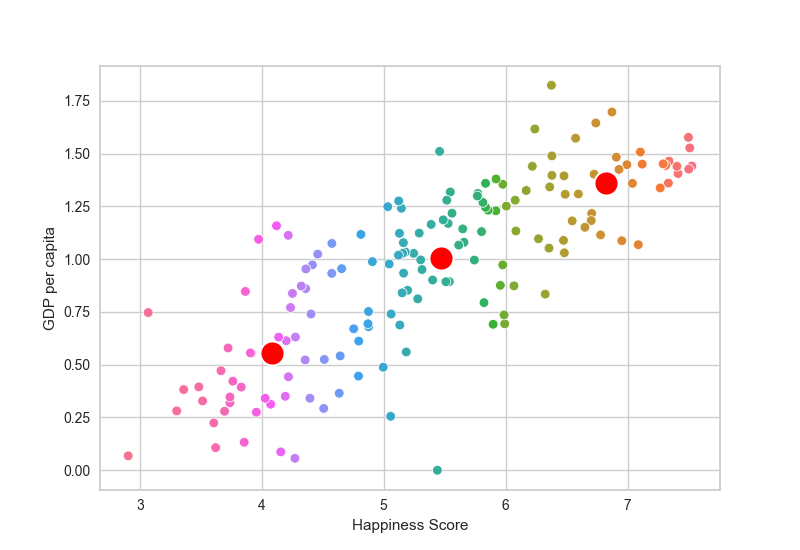
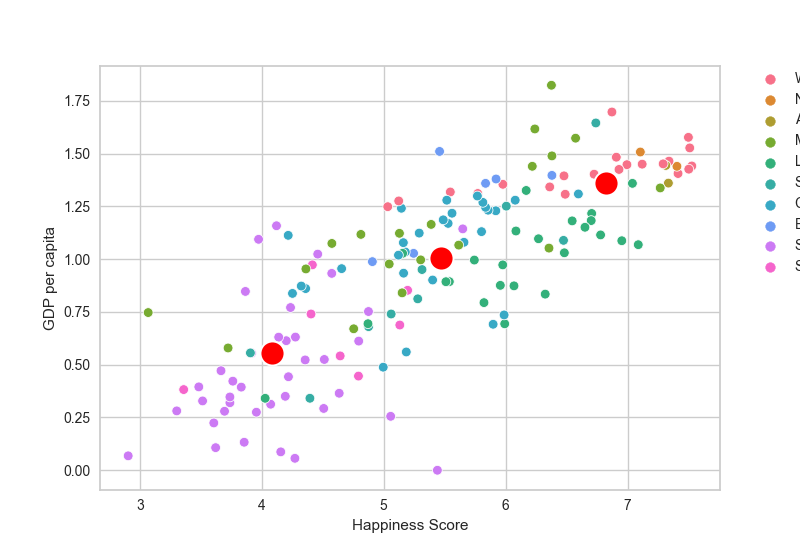
Separado em funções e análise com região adicionada

diff --git a/happiness.py b/happiness.py
@@ -8,33 +8,32 @@ from yellowbrick.cluster import KElbowVisualizer
 from sklearn.metrics import silhouette_samples, silhouette_score
 import matplotlib.cm as cm
 
-
-if __name__ == '__main__':
-    df = pd.read_csv('data/happiness/2016.csv')
-    print(df.columns)
-    print(len(pd.unique(df['Country'])))
-    happinessScore = df[['Country', 'Happiness Score']]
-    gdpByHappiness = df[['Country', 'Happiness Score', 'Economy (GDP per Capita)']]
+def Kmeans_Country_HappinessvGDP(dataset):
+    print(dataset.columns)
+    print(len(pd.unique(dataset['Country'])))
+    happinessScore = dataset[['Country', 'Happiness Score']]
+    gdpByHappiness = dataset[['Country', 'Happiness Score', 'Economy (GDP per Capita)']]
     print(gdpByHappiness)
     plt.figure(figsize=(9, 8))
     sns.scatterplot(data=gdpByHappiness, x="Happiness Score", y=gdpByHappiness['Economy (GDP per Capita)'].values,
-                    hue=df.Country)
-    #markers.MarkerStyle.markers.keys()
-    #Best fit so far
-    #plt.legend(loc=3, bbox_to_anchor=(0, 1, 0.4, 0.4), fontsize='xx-small', ncol=8)
+                    hue=gdpByHappiness.Country)
+    # markers.MarkerStyle.markers.keys()
+    # Best fit so far
+    # plt.legend(loc=3, bbox_to_anchor=(0, 1, 0.4, 0.4), fontsize='xx-small', ncol=8)
     plt.legend(bbox_to_anchor=(0, 1), loc="lower left", ncol=5, fontsize='xx-small')
     plt.xlabel('Happiness Score')
     plt.ylabel('GDP per capita')
     fig = plt.gcf()
-    #fig.set_size_inches(4, 12)
+    # fig.set_size_inches(4, 12)
     plt.savefig("data/results/happiness/HappinessVsGDPWithLegend.png", bbox_inches="tight")
     plt.show()
 
+    # Update: wasn't necessary
     # scaling values for elbow method
-    scaler = MinMaxScaler()
-    x_scaled = scaler.fit_transform(gdpByHappiness[['Happiness Score', 'Economy (GDP per Capita)']])
+    # scaler = MinMaxScaler()
+    # x_scaled = scaler.fit_transform(gdpByHappiness[['Happiness Score', 'Economy (GDP per Capita)']])
 
-    #Elbow Method
+    # Elbow Method
 
     wcss = []
     for i in range(1, 11):
@@ -48,11 +47,11 @@ if __name__ == '__main__':
     plt.savefig("data/results/happiness/ElbowMethod.png")
     plt.show()
 
-
+    # As seen in the previous plot, the ideal number of clusters is 3
     kmeans = KMeans(n_clusters=3, init='k-means++', max_iter=300, n_init=10, random_state=0)
     pred_y = kmeans.fit_predict(gdpByHappiness[['Happiness Score', 'Economy (GDP per Capita)']])
     sns.scatterplot(data=gdpByHappiness, x="Happiness Score", y=gdpByHappiness['Economy (GDP per Capita)'].values,
-                    hue=df.Country, legend=False)
+                    hue=gdpByHappiness.Country, legend=False)
     sns.scatterplot(kmeans.cluster_centers_[:, 0], kmeans.cluster_centers_[:, 1], s=300, color='red')
     plt.legend(bbox_to_anchor=(1.05, 1), loc=2, borderaxespad=0.)
     plt.xlabel('Happiness Score')
@@ -61,6 +60,62 @@ if __name__ == '__main__':
     plt.show()
 
 
+def KMeans_Region_HappinessvGDP(df):
+    # Now we do the same graph but for Region, not Country
+    print(len(pd.unique(df['Region'])))
+    gdpByHappiness_region = df[['Region', 'Happiness Score', 'Economy (GDP per Capita)']]
+    plt.figure(figsize=(9, 8))
+    sns.scatterplot(data=gdpByHappiness_region, x="Happiness Score",
+                    y=gdpByHappiness_region['Economy (GDP per Capita)'].values
+                    , hue=df.Region)
+    # markers.MarkerStyle.markers.keys()
+    # Best fit so far
+    # plt.legend(loc=3, bbox_to_anchor=(0, 1, 0.4, 0.4), fontsize='xx-small', ncol=8)
+    plt.legend(bbox_to_anchor=(0, 1), loc="lower left")
+    plt.xlabel('Happiness Score')
+    plt.ylabel('GDP per capita')
+    fig = plt.gcf()
+    # fig.set_size_inches(4, 12)
+    plt.savefig("data/results/happiness/Region_HappinessVsGDPWithLegend.png", bbox_inches="tight")
+    plt.show()
+
+    # Update: wasn't necessary
+    # scaling values for elbow method
+    # scaler = MinMaxScaler()
+    # x_scaled = scaler.fit_transform(gdpByHappiness[['Happiness Score', 'Economy (GDP per Capita)']])
+
+    # Elbow Method
+
+    wcss = []
+    for i in range(1, 11):
+        kmeans = KMeans(n_clusters=i, init='k-means++', max_iter=300, n_init=10, random_state=0)
+        kmeans.fit(gdpByHappiness_region[['Happiness Score', 'Economy (GDP per Capita)']])
+        wcss.append(kmeans.inertia_)
+    plt.plot(range(1, 11), wcss)
+    plt.title('Elbow Method')
+    plt.xlabel('Number of clusters')
+    plt.ylabel('WCSS')
+    plt.savefig("data/results/happiness/ElbowMethod_region.png")
+    plt.show()
+
+    # As seen in the previous plot, the ideal number of clusters is 3
+    kmeans = KMeans(n_clusters=3, init='k-means++', max_iter=300, n_init=10, random_state=0)
+    pred_y = kmeans.fit_predict(gdpByHappiness_region[['Happiness Score', 'Economy (GDP per Capita)']])
+    sns.scatterplot(data=gdpByHappiness_region, x="Happiness Score",
+                    y=gdpByHappiness_region['Economy (GDP per Capita)'].values,
+                    hue=gdpByHappiness_region.Region)
+    sns.scatterplot(kmeans.cluster_centers_[:, 0], kmeans.cluster_centers_[:, 1], s=300, color='red')
+    plt.legend(bbox_to_anchor=(1.05, 1), loc=2, borderaxespad=0.)
+    plt.xlabel('Happiness Score')
+    plt.ylabel('GDP per capita')
+    plt.savefig("data/results/happiness/HappinessVsGDPPerCapitaWithClusters.png")
+    plt.show()
+
+
+if __name__ == '__main__':
+    df = pd.read_csv('data/happiness/2016.csv')
+    Kmeans_Country_HappinessvGDP(dataset=df)
+    KMeans_Region_HappinessvGDP(df)
 
 
 
